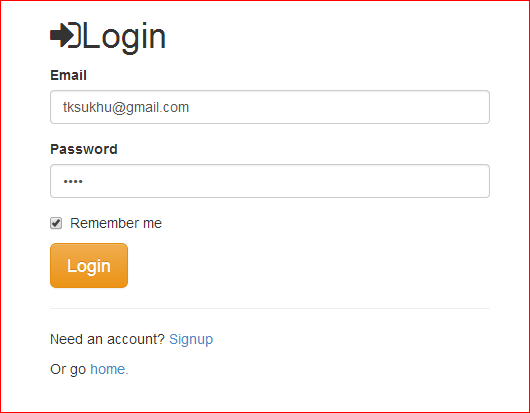
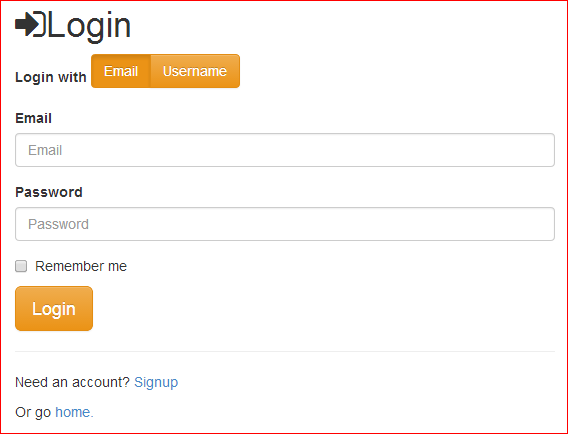
Login options of email or username

diff --git a/config/passport.js b/config/passport.js
@@ -44,6 +44,7 @@ module.exports = function(passport) {
     	// asynchronous
         // User.findOne wont fire unless data is sent back
         process.nextTick(function() {
+ 
         	
     		// find a user whose email is the same as the forms email
     		// we are checking to see if the user trying to login already exists
@@ -56,27 +57,64 @@ module.exports = function(passport) {
                 	
                 // check to see if theres already a user with that email
                 if (user) {
-                    return done(null, false, req.flash('signupMessage', 'That email is already taken.'));
+                    return done(null, false, req.flash('signupMessage', 'This email ('+ email + ')is already taken.'));
                 } else {
+                	 	console.log(req.body.username);
+                		if (req.body.username !== null) {
+                		 
+                			User.findOne({ 'local.username' :  req.body.username }, function(err, user) {	
+                       		 if (err)
+                                {
+                                	return done(err);
+                                }
+                                	
+                                // check to see if theres already a user with that email
+                                if (user) {
+                                    return done(null, false, req.flash('signupMessage', 'This username ('+ req.body.username + ')is already taken.'));
+                                }  else {
+                            		// if there is no user with that email or username
+                                    // create the user
+                                    var newUser = new User();
 
-    				// if there is no user with that email
-                    // create the user
-                    var newUser            = new User();
+                                    // set the user's local credentials
+                                    newUser.local.email    = email;
+                                    newUser.local.username = req.body.username;
+                                    newUser.local.password = newUser.generateHash(password); // use the generateHash function in our user model
+                                    console.log(newUser.local.email + " : " + newUser.local.username + " : " + newUser.local.password);
+                    				// save the user
+                                    newUser.save(function(err) {
+                                    	if (err)
+                                            throw err;
+                                        return done(null, newUser);
+                                    });
+               				
+                                }               
+                             });
+                               
+                		} else {
+                    		// if there is no user with that email or username
+                            // create the user
+                            var newUser = new User();
 
-                    // set the user's local credentials
-                    newUser.local.email    = email;
-                    newUser.local.password = newUser.generateHash(password); // use the generateHash function in our user model
+                            // set the user's local credentials
+                            newUser.local.email    = email;
+                            newUser.local.password = newUser.generateHash(password); // use the generateHash function in our user model
+                            //console.log(newUser.local.email + " : " + newUser.local.username + " : " + newUser.local.password);
+            				// save the user
+                            newUser.save(function(err) {
+                            	if (err)
+                                    throw err;
+                                return done(null, newUser);
+                            });
+                		}
+                         
 
-    				// save the user
-                    newUser.save(function(err) {
-                    	if (err)
-                            throw err;
-                        return done(null, newUser);
-                    });
-                }
 
-            });
-        });
+                } //else
+            }); //find email
+        
+            
+        }); //process.nextTick()
 
 
     }));
@@ -94,40 +132,73 @@ module.exports = function(passport) {
         passReqToCallback : true // allows us to pass back the entire request to the callback
     },
     function(req, email, password, done) { // callback with email and password from our form
+    	
+    	// login form hidden field for login option (username or email)
+    	// if username set then set the key for username and password
+    	if (req.body.loginOption==='login-user'){
+            // find a user whose email is the same   the forms email
+            // we are checking to see if the user trying to login already exists
+            User.findOne({'local.username' : req.body.username } , function(err, user) {
+                // if there are any errors, return the error before anything else
+                if (err) {
+                	return done(err);
+                }
+                // if no user is found, return the message
+                if (!user)
+                    return done(null, false, req.flash('loginMessage', 'No '+findValue +' found.')); // req.flash is the way to set flashdata using connect-flash
 
-        // find a user whose email is the same as the forms email
-        // we are checking to see if the user trying to login already exists
-        User.findOne({ 'local.email' :  email }, function(err, user) {
-            // if there are any errors, return the error before anything else
-            if (err) {
-            	return done(err);
-            }
-            // if no user is found, return the message
-            if (!user)
-                return done(null, false, req.flash('loginMessage', 'No user found.')); // req.flash is the way to set flashdata using connect-flash
+                // if the user is found but the password is wrong
+                if (!user.validPassword(password))
+                    return done(null, false, req.flash('loginMessage', 'Oops! Wrong password.')); // create the loginMessage and save it to session as flashdata
+               
+                console.log("passport rememberme = "+req.cookies.rememberme);
 
-            // if the user is found but the password is wrong
-            if (!user.validPassword(password))
-                return done(null, false, req.flash('loginMessage', 'Oops! Wrong password.')); // create the loginMessage and save it to session as flashdata
-            console.log("passport rememberme = "+req.cookies.rememberme);
-            if (req.body.rememberme) {
-            	user.local.rememberme=1;
-
-            } else {
-            	user.local.rememberme=0;
-            	req.session.cookie.expires = false;
-            }
-            
-        	// save the user
-            user.save(function(err) {
-            	if (err)
-                    throw err;
-            	// all is well, return successful user
+                if (req.body.rememberme) {
+                	var thirtyDays = 30*24*60*60*1000;
+                	req.session.cookie.expires = new Date(Date.now() + thirtyDays);
+                	req.session.cookie.maxAge = thirtyDays;
+                } else {
+                	req.session.cookie.expires = false;
+                }
+                console.log("returned user ="+ user);
+                // all is well, return successful user
                 return done(null, user);
+
             });
+    	} else {
+            // find a user whose email is the same as the forms email
+            // we are checking to see if the user trying to login already exists
+            User.findOne({'local.email' : email }, function(err, user) {
+                // if there are any errors, return the error before anything else
+                if (err) {
+                	return done(err);
+                }
+                // if no user is found, return the message
+                if (!user)
+                    return done(null, false, req.flash('loginMessage', 'No '+findValue +' found.')); // req.flash is the way to set flashdata using connect-flash
+
+                // if the user is found but the password is wrong
+                if (!user.validPassword(password))
+                    return done(null, false, req.flash('loginMessage', 'Oops! Wrong password.')); // create the loginMessage and save it to session as flashdata
+               
+                console.log("passport rememberme = "+req.cookies.rememberme);
+
+                if (req.body.rememberme) {
+                	var thirtyDays = 30*24*60*60*1000;
+                	req.session.cookie.expires = new Date(Date.now() + thirtyDays);
+                	req.session.cookie.maxAge = thirtyDays;
+                } else {
+                	req.session.cookie.expires = false;
+                }
+                console.log("returned user ="+ user);
+                // all is well, return successful user
+                return done(null, user);
+
+            });
+    	}
+    	
 
 
-        });
 
     }));
 

diff --git a/routes/routes.js b/routes/routes.js
@@ -5,33 +5,11 @@ delete require.cache['./routes/destinations'];
 
 module.exports = function(app, passport) {
 
-
-	app.get('*', function(req, res, next) {
-		
-		// put user into res.locals for easy access from templates
-		if (req.user) {
-			 res.locals.user = req.user;		 
-		}		 
-		else {
-			res.locals.user = null;
-		}
-
-		  next();
-	});
-	
 	// =====================================
 	// HOME PAGE (with login links) ========
 	// =====================================
 	app.get('/', function(req, res) {
-		var rememberme="unchecked";
-		var user = null;
-		if (res.locals.user) {
-			user = res.locals.user;
-			if(user.local.rememberme===1) {
-				rememberme="checked";
-			}
-		}
-		res.render('index', { title: 'India Tourism' ,_user : user , rememberme: rememberme  });
+		res.render('index', { title: 'India Tourism' ,_user : req.user });
 	});
 
 	// =====================================
@@ -39,30 +17,20 @@ module.exports = function(app, passport) {
 	// =====================================
 	// show the login form
 	app.get('/login', function(req, res) {
-		var rememberme="unchecked";
-	//	console.log(res.locals.user);
-		if (res.locals.user) {
-			if(res.locals.user.local.rememberme===1) {
-				rememberme="checked";
-			}
-		}
 		// render the page and pass in any flash data if it exists
-		res.render('login', { message: req.flash('loginMessage') , rememberme: rememberme  });
+		res.render('login', { message: req.flash('loginMessage')});
 	
 	});
 
 	// process the login form
 	// app.post('/login', do all our passport stuff here);
-	app.post('/login',function(req, res, next) { 
-    	var thirtyDays = 30*24*60*60*1000;
-    	req.session.cookie.expires = new Date(Date.now() + thirtyDays);
-    	req.session.cookie.maxAge = thirtyDays;
-	    next();
-	},passport.authenticate('local-login', {
+	app.post('/login',passport.authenticate('local-login', {
 		successRedirect : '/', // redirect to the home page
 		failureRedirect : '/login', // redirect back to the signup page if there is an error
 		failureFlash : true // allow flash messages
 	}));
+	
+
 	
 	// =====================================
 	// SIGNUP ==============================
@@ -105,6 +73,9 @@ module.exports = function(app, passport) {
 	// =====================================
 	app.get('/logout', function(req, res) {
 		req.logout();
+		if (req.user) {
+			req.user=null;
+		}
 		res.redirect('/');
 	});
 		

diff --git a/models/user.js b/models/user.js
@@ -9,7 +9,7 @@ var userSchema = mongoose.Schema({
     local            : {
         email        : String,
         password     : String,
-        rememberme	 : Number,
+        username	 : String,
         preference	 : {
         		favRegion : String
         	}
@@ -19,21 +19,18 @@ var userSchema = mongoose.Schema({
         token        : String,
         email        : String,
         name         : String,
-        rememberme	 : Number
     },
     twitter          : {
         id           : String,
         token        : String,
         displayName  : String,
-        username     : String,
-        rememberme	 : Number
+        username     : String
     },
     google           : {
         id           : String,
         token        : String,
         email        : String,
-        name         : String,
-        rememberme	 : Number
+        name         : String
     }
 
 });
